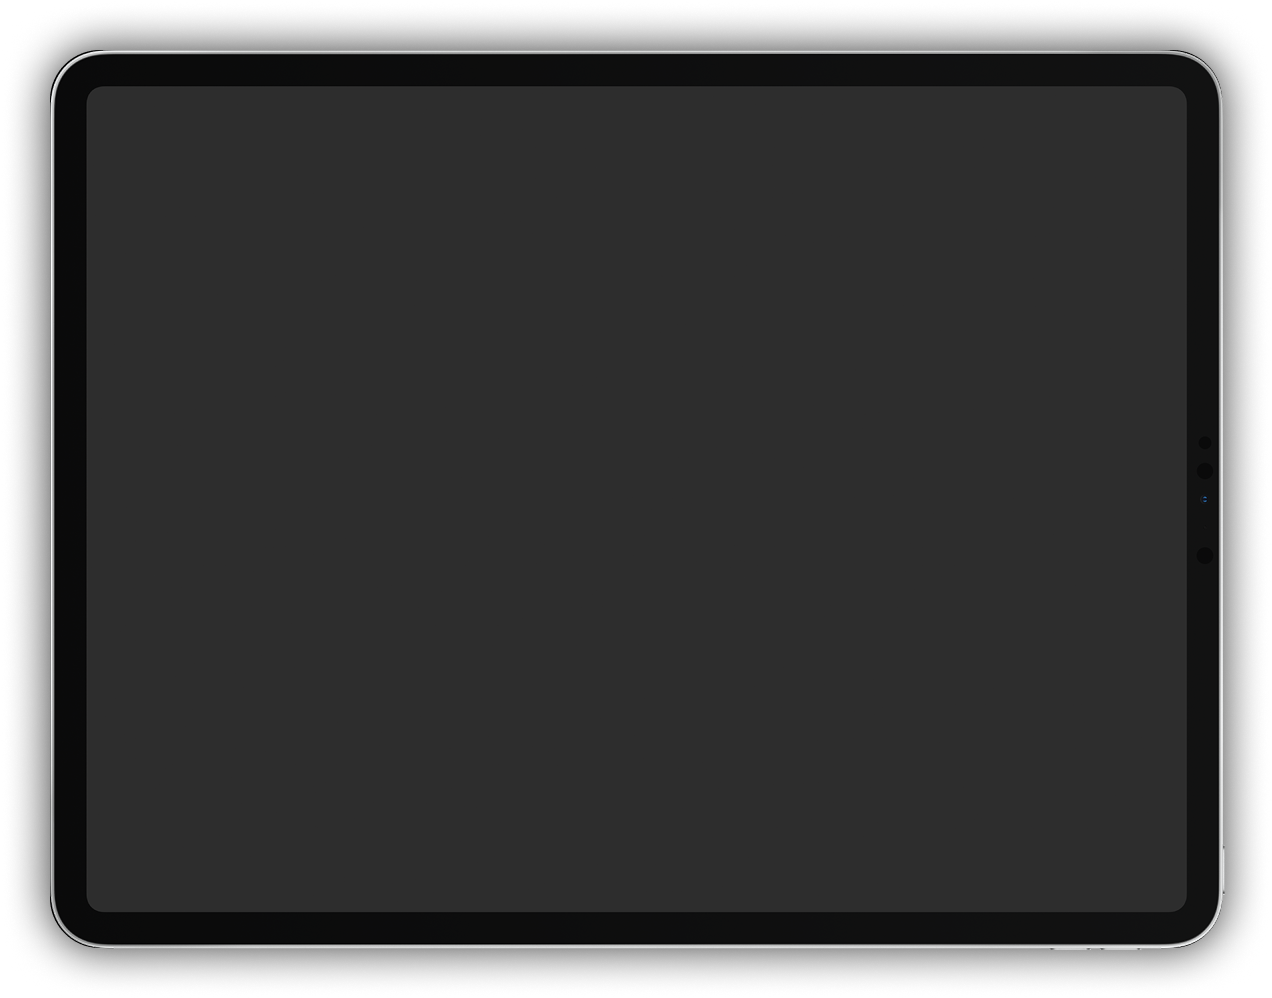
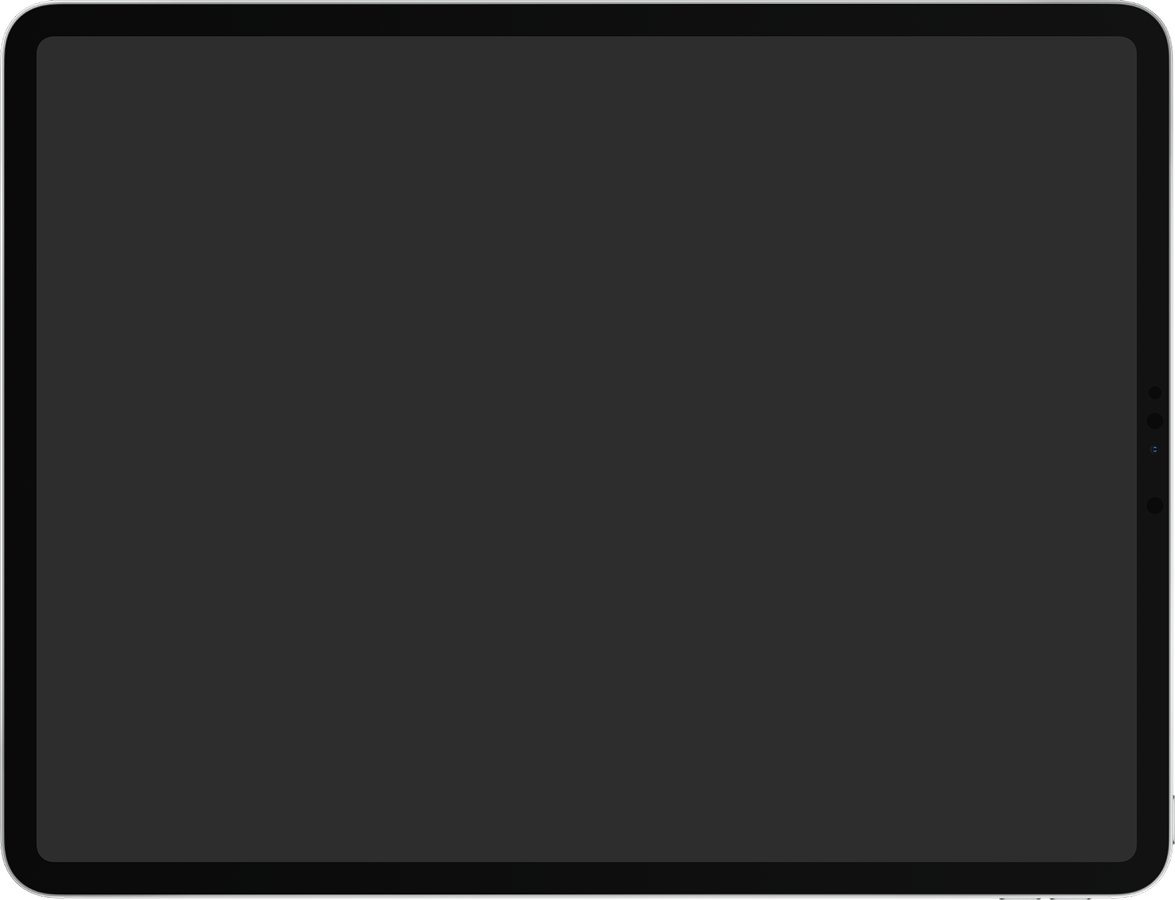
fix: update nas imagens

Changed region(s): [[0.0, 0.0, 1.0, 1.0]]

diff --git a/assets/css/landing.css b/assets/css/landing.css
@@ -151,6 +151,19 @@ html.acessibilidade--reduzir-animacoes:has(.pagina-landing) {
   min-height: var(--tamanho-alvo-toque);
 }
 
+.landing-final .botao--primario {
+  background: var(--cor-superficie);
+  border-color: var(--cor-superficie);
+  color: var(--cor-primaria);
+}
+
+.landing-final .botao--primario:hover,
+.landing-final .botao--primario:focus-visible {
+  background: var(--cor-superficie-suave);
+  border-color: var(--cor-superficie-suave);
+  color: var(--cor-primaria-hover);
+}
+
 .landing-conteudo {
   display: flex;
   flex-direction: column;
@@ -394,7 +407,7 @@ html.acessibilidade--reduzir-animacoes:has(.pagina-landing) {
 
 .landing-mensagem__figurinha {
   position: absolute;
-  inset: auto -4px 0 auto;
+  inset: auto 10px 0 auto;
   width: clamp(76px, 7.15vw, 103px);
   height: auto;
 }
@@ -606,7 +619,7 @@ html.acessibilidade--reduzir-animacoes:has(.pagina-landing) {
   z-index: -1;
   inset: auto 0 0;
   height: clamp(180px, 21vw, 300px);
-  background: var(--landing-destaque-superficie);
+  background: var(--cor-primaria);
 }
 
 .landing-final__onda {
@@ -616,7 +629,7 @@ html.acessibilidade--reduzir-animacoes:has(.pagina-landing) {
   display: block;
   width: 100%;
   height: clamp(110px, 22vw, 310px);
-  fill: var(--landing-destaque-superficie);
+  fill: var(--cor-primaria);
 }
 
 .landing-final__conteudo {
@@ -625,25 +638,50 @@ html.acessibilidade--reduzir-animacoes:has(.pagina-landing) {
   display: grid;
   justify-items: center;
   gap: clamp(20px, 2.5vw, 32px);
-  width: min(100% - 32px, 290px);
+  width: min(860px, 78vw, 100% - 2 * clamp(16px, 2.7vw, 40px));
+}
+
+.landing-final__tablet {
+  position: relative;
+  width: 100%;
+  filter: drop-shadow(0 16px 32px color-mix(in srgb, var(--cor-neutra-escura-01) 18%, transparent));
+}
+
+.landing-final__moldura {
+  display: block;
+  width: 100%;
+  height: auto;
+}
+
+.landing-final__tela {
+  position: absolute;
+  inset: 4.05% 3.25% 4.15% 3.18%;
+  width: 93.57%;
+  height: 91.8%;
+  object-fit: cover;
+  border-radius: 1.5% / 2%;
+}
+
+.landing-final__tela--estatica {
+  display: none;
 }
 
 .landing-final__celular {
-  display: block;
+  display: none;
   width: min(100%, 260px);
   height: auto;
   filter: drop-shadow(0 14px 28px color-mix(in srgb, var(--cor-neutra-escura-01) 20%, transparent));
 }
 
 .landing-braco--verde {
-  inset: clamp(16px, 3vw, 48px) auto auto 0;
-  width: min(32vw, 460px);
+  inset: clamp(12px, 2.5vw, 36px) auto auto 0;
+  width: min(23vw, 340px);
   z-index: 0;
 }
 
 .landing-braco--amarelo {
-  inset: clamp(80px, 11vw, 160px) 0 auto auto;
-  width: min(30vw, 420px);
+  inset: clamp(72px, 10vw, 144px) 0 auto auto;
+  width: min(22vw, 320px);
   z-index: 0;
 }
 
@@ -684,6 +722,7 @@ html.acessibilidade--alto-contraste .landing-rolar {
 }
 
 html.acessibilidade--alto-contraste .landing-vitrine__celular,
+html.acessibilidade--alto-contraste .landing-final__tablet,
 html.acessibilidade--alto-contraste .landing-final__celular {
   filter: none;
 }
@@ -789,11 +828,27 @@ html.acessibilidade--alto-contraste .landing-final__celular {
   .landing-rolar {
     animation: none;
   }
+
+  .landing-final__tela--animada {
+    display: none;
+  }
+
+  .landing-final__tela--estatica {
+    display: block;
+  }
 }
 
 html.acessibilidade--reduzir-animacoes .landing-topo__menu.esta-aberto,
 html.acessibilidade--reduzir-animacoes .landing-rolar {
   animation: none;
+}
+
+html.acessibilidade--reduzir-animacoes .landing-final__tela--animada {
+  display: none;
+}
+
+html.acessibilidade--reduzir-animacoes .landing-final__tela--estatica {
+  display: block;
 }
 
 @media (max-width: 1100px) {
@@ -906,7 +961,16 @@ html.acessibilidade--reduzir-animacoes .landing-rolar {
     padding-block-end: 40px;
   }
 
+  .landing-final__conteudo {
+    width: min(100% - 32px, 290px);
+  }
+
+  .landing-final__tablet {
+    display: none;
+  }
+
   .landing-final__celular {
+    display: block;
     width: min(64vw, 230px);
   }
 

diff --git a/index.html b/index.html
@@ -152,7 +152,7 @@
             <p class="landing-mensagem__balao"><strong>~ Vizinho</strong> Ela já tomou o remédio das 8h?</p>
           </li>
           <li class="landing-mensagem landing-mensagem--resposta">
-            <p class="landing-mensagem__balao">Deixei tudo no Mutirão!</p>
+            <p class="landing-mensagem__balao">Deixei tudo no Mutirão!❤</p>
             <img class="landing-mensagem__figurinha" src="assets/media/figurinhas/mari-cafe.webp" alt="" width="103"
               height="98" aria-hidden="true" />
           </li>
@@ -324,8 +324,18 @@
         width="466" height="267" aria-hidden="true" />
 
       <div class="landing-final__conteudo">
+        <div class="landing-final__tablet">
+          <img class="landing-final__moldura" src="assets/media/aplicacao/tablet-template.png" alt="" width="1175"
+            height="900" aria-hidden="true" />
+          <img class="landing-final__tela landing-final__tela--animada" src="assets/media/aplicacao/tablet-demo.webp"
+            alt="Demonstração animada do Mutirão navegando por turnos, agenda, medicamentos, direitos e PontoBOT"
+            width="1080" height="810" />
+          <img class="landing-final__tela landing-final__tela--estatica" src="assets/media/aplicacao/tablet-home.png"
+            alt="Tela inicial do Mutirão no computador e tablet exibindo os cuidados de hoje" width="1280" height="960"
+            loading="lazy" />
+        </div>
         <img class="landing-final__celular" src="assets/media/aplicacao/mobile-home.png"
-          alt="Tela inicial do Mutirão no celular mostrando os cuidados de hoje" width="389" height="705"
+          alt="Tela inicial do Mutirão no celular mostrando os cuidados de hoje" width="290" height="605"
           loading="lazy" />
         <a class="botao botao--primario" href="login.html">Acessar a demonstração</a>
       </div>
